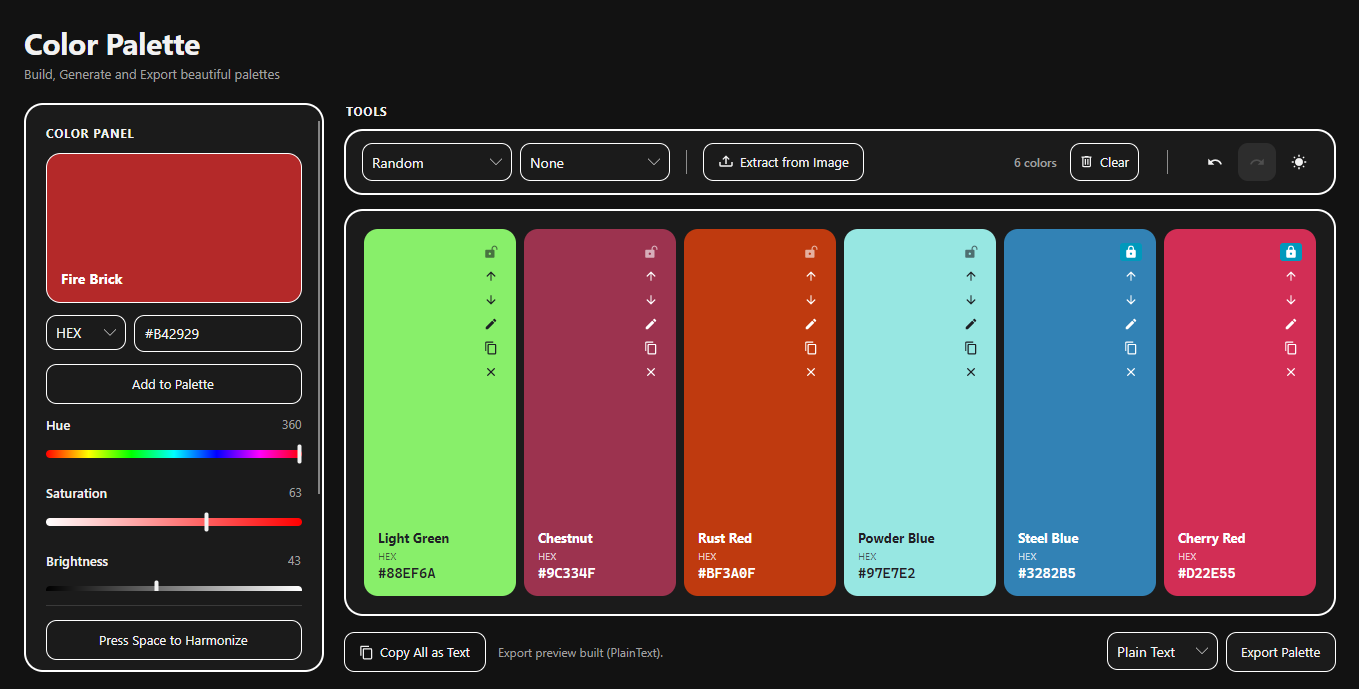
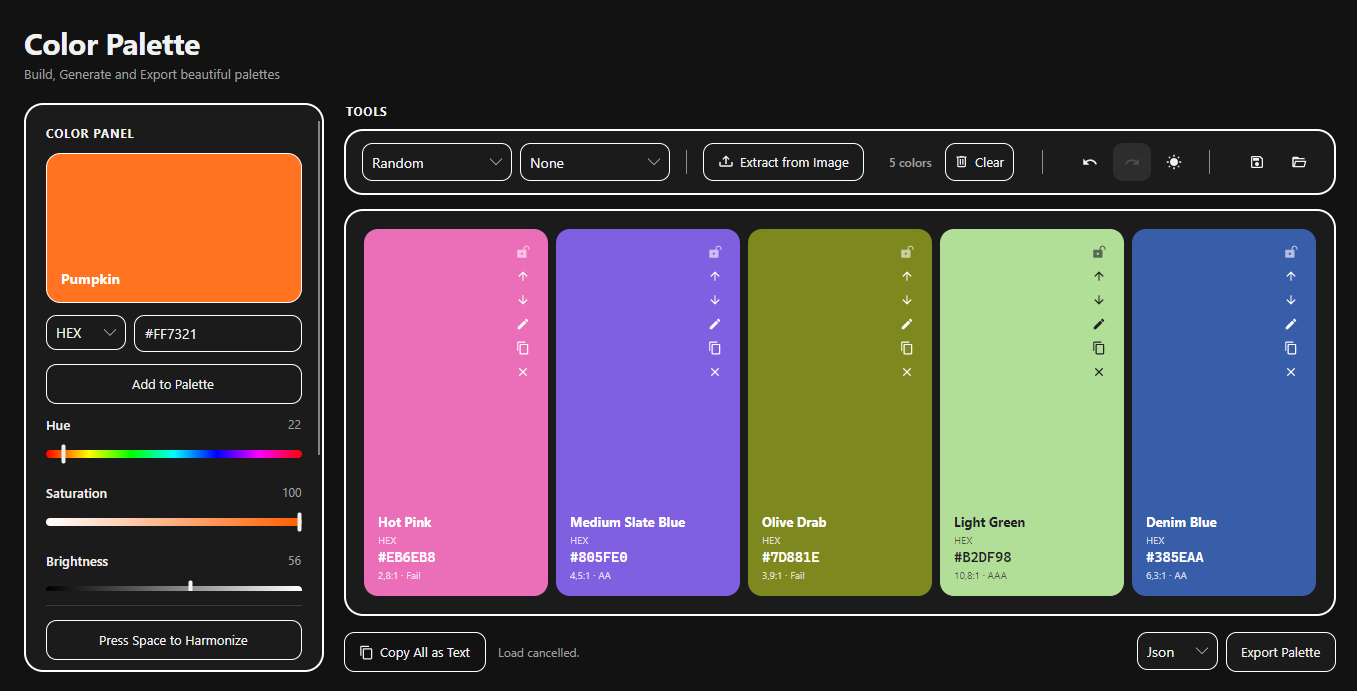
improving features

diff --git a/ViewModels/MainWindowViewModel.cs b/ViewModels/MainWindowViewModel.cs
@@ -10,7 +10,9 @@ using System;
 using System.Collections.Generic;
 using System.Collections.ObjectModel;
 using System.Globalization;
+using System.IO;
 using System.Linq;
+using System.Text.Json;
 using System.Threading.Tasks;
 
 namespace Spectrum.ViewModels
@@ -40,6 +42,9 @@ namespace Spectrum.ViewModels
         private double _temperature; // -100 (cool) .. 100 (warm), 0 = neutral
 
         [ObservableProperty]
+        private double _alpha = 100; // 0 (transparent) .. 100 (opaque), applied to BaseColor
+
+        [ObservableProperty]
         private HarmonyType _selectedHarmony = HarmonyType.Random;
 
         [ObservableProperty]
@@ -66,7 +71,8 @@ namespace Spectrum.ViewModels
             get
             {
                 var hslColor = ColorHarmonyService.FromHsl(Hue, Saturation / 100.0, Lightness / 100.0);
-                return ApplyTemperature(hslColor, Temperature);
+                var tinted = ApplyTemperature(hslColor, Temperature);
+                return Color.FromArgb(ToByte(Alpha / 100.0 * 255.0), tinted.R, tinted.G, tinted.B);
             }
         }
 
@@ -94,6 +100,9 @@ namespace Spectrum.ViewModels
             }
         }
 
+        // Percentage label for the Opacity slider's caption (e.g. "72%").
+        public string AlphaLabel => $"{Alpha:N0}%";
+
             // ---- Gradient track backgrounds for the four sliders. Hue,
             // ---- Brightness and Temperature are fixed; Saturation's end color
             // ---- depends on the current Hue, so it's recomputed whenever that changes.
@@ -118,7 +127,16 @@ namespace Spectrum.ViewModels
                 (Color.FromRgb(0x4A, 0x90, 0xE2), 0.0),
                 (Color.FromRgb(0xF5, 0xA6, 0x23), 1.0));
 
-        // ---- Undo/redo history (covers add/remove/clear/generate/extract —
+            // Unlike the other tracks, this one depends on the live base
+            // color (so the gradient always fades *that* hue from
+            // transparent to opaque) rather than a fixed set of stops, so
+            // it's a plain computed property kept in sync via
+            // RaiseColorPropertiesChanged instead of a field initializer.
+            public IBrush AlphaTrackBrush => CreateHorizontalGradient(
+                (Color.FromArgb(0, BaseColor.R, BaseColor.G, BaseColor.B), 0.0),
+                (Color.FromArgb(255, BaseColor.R, BaseColor.G, BaseColor.B), 1.0));
+
+        // ---- Undo/redo history (covers add/remove/clear/generate/extract/load —
         // ---- see PushHistory call sites. In-place edits like renaming or
         // ---- toggling a lock aren't tracked.)
         private readonly Stack<List<SwatchSnapshot>> _undoStack = new();
@@ -146,6 +164,12 @@ namespace Spectrum.ViewModels
         partial void OnLightnessChanged(double value) => RaiseColorPropertiesChanged();
         partial void OnTemperatureChanged(double value) => RaiseColorPropertiesChanged();
 
+        partial void OnAlphaChanged(double value)
+        {
+            OnPropertyChanged(nameof(AlphaLabel));
+            RaiseColorPropertiesChanged();
+        }
+
         partial void OnSelectedColorBlindModeChanged(ColorBlindMode value)
         {
             foreach (var swatch in Palette)
@@ -161,6 +185,7 @@ namespace Spectrum.ViewModels
             OnPropertyChanged(nameof(BaseColorName));
             OnPropertyChanged(nameof(BaseForegroundBrush));
             OnPropertyChanged(nameof(BaseHex));
+            OnPropertyChanged(nameof(AlphaTrackBrush));
         }
 
         private static Color ApplyTemperature(Color c, double temperature)
@@ -472,6 +497,77 @@ namespace Spectrum.ViewModels
             if (string.IsNullOrEmpty(ExportPreview)) BuildExportPreview();
             await ClipboardHelper.SetTextAsync(ExportPreview);
             StatusMessage = "Copied export text to clipboard.";
+        }
+
+        // ---------------- Palette persistence ----------------
+
+        [RelayCommand]
+        private async Task SavePaletteAsync()
+        {
+            var suggestedName = $"palette-{DateTime.Now:yyyyMMdd-HHmmss}";
+            var path = await PaletteFileService.PickSaveFileAsync(suggestedName);
+            if (string.IsNullOrEmpty(path))
+            {
+                StatusMessage = "Save cancelled.";
+                return;
+            }
+
+            var dtos = Palette
+                .Select(s => new PaletteSwatchDto(s.Name, s.Color.A, s.Color.R, s.Color.G, s.Color.B, s.IsLocked))
+                .ToList();
+
+            try
+            {
+                var json = JsonSerializer.Serialize(dtos, new JsonSerializerOptions { WriteIndented = true });
+                await File.WriteAllTextAsync(path, json);
+                StatusMessage = $"Palette saved to {Path.GetFileName(path)}.";
+            }
+            catch (Exception ex)
+            {
+                StatusMessage = $"Couldn't save palette: {ex.Message}";
+            }
+        }
+
+        [RelayCommand]
+        private async Task LoadPaletteAsync()
+        {
+            var path = await PaletteFileService.PickOpenFileAsync();
+            if (string.IsNullOrEmpty(path))
+            {
+                StatusMessage = "Load cancelled.";
+                return;
+            }
+
+            List<PaletteSwatchDto>? dtos;
+            try
+            {
+                var json = await File.ReadAllTextAsync(path);
+                dtos = JsonSerializer.Deserialize<List<PaletteSwatchDto>>(json);
+            }
+            catch (Exception ex)
+            {
+                StatusMessage = $"Couldn't load palette: {ex.Message}";
+                return;
+            }
+
+            if (dtos is null)
+            {
+                StatusMessage = "That file didn't contain a usable palette.";
+                return;
+            }
+
+            PushHistory();
+            Palette.Clear();
+
+            foreach (var dto in dtos)
+            {
+                var color = Color.FromArgb(dto.A, dto.R, dto.G, dto.B);
+                var swatch = CreateSwatch(color, dto.Name);
+                swatch.IsLocked = dto.IsLocked;
+                Palette.Add(swatch);
+            }
+
+            StatusMessage = $"Loaded {Palette.Count} color{(Palette.Count == 1 ? "" : "s")} from {Path.GetFileName(path)}.";
         }
     }
 }

diff --git a/Services/ColorHarmonyService.cs b/Services/ColorHarmonyService.cs
@@ -14,35 +14,38 @@ namespace Spectrum.Services
         public static List<Color> Generate(Color baseColor, HarmonyType type)
         {
             var (h, s, l) = ToHsl(baseColor);
+            // Harmony-derived colors inherit the base color's alpha, so the
+            // Opacity slider affects the whole generated set consistently.
+            var a = baseColor.A;
             var result = new List<Color> { baseColor };
 
             switch (type)
             {
                 case HarmonyType.Complementary:
-                    result.Add(FromHsl(h + 180, s, l));
+                    result.Add(FromHsl(h + 180, s, l, a));
                     break;
 
                 case HarmonyType.Analogous:
-                    result.Add(FromHsl(h - 30, s, l));
-                    result.Add(FromHsl(h + 30, s, l));
-                    result.Add(FromHsl(h - 60, s, l));
-                    result.Add(FromHsl(h + 60, s, l));
+                    result.Add(FromHsl(h - 30, s, l, a));
+                    result.Add(FromHsl(h + 30, s, l, a));
+                    result.Add(FromHsl(h - 60, s, l, a));
+                    result.Add(FromHsl(h + 60, s, l, a));
                     break;
 
                 case HarmonyType.Triadic:
-                    result.Add(FromHsl(h + 120, s, l));
-                    result.Add(FromHsl(h + 240, s, l));
+                    result.Add(FromHsl(h + 120, s, l, a));
+                    result.Add(FromHsl(h + 240, s, l, a));
                     break;
 
                 case HarmonyType.SplitComplementary:
-                    result.Add(FromHsl(h + 150, s, l));
-                    result.Add(FromHsl(h + 210, s, l));
+                    result.Add(FromHsl(h + 150, s, l, a));
+                    result.Add(FromHsl(h + 210, s, l, a));
                     break;
 
                 case HarmonyType.Tetradic:
-                    result.Add(FromHsl(h + 90, s, l));
-                    result.Add(FromHsl(h + 180, s, l));
-                    result.Add(FromHsl(h + 270, s, l));
+                    result.Add(FromHsl(h + 90, s, l, a));
+                    result.Add(FromHsl(h + 180, s, l, a));
+                    result.Add(FromHsl(h + 270, s, l, a));
                     break;
 
                 case HarmonyType.Monochromatic:
@@ -50,7 +53,7 @@ namespace Spectrum.Services
                     for (var i = 0; i < 5; i++)
                     {
                         var lightness = Math.Clamp(l - 0.4 + i * 0.2, 0.05, 0.95);
-                        result.Add(FromHsl(h, s, lightness));
+                        result.Add(FromHsl(h, s, lightness, a));
                     }
                     break;
 
@@ -68,7 +71,8 @@ namespace Spectrum.Services
         /// bands (vivid without being oversaturated, and never near-black or near-white).
         /// Used by the Coolors-style "press Space to generate" palette generator, where
         /// each unlocked swatch is rerolled independently rather than derived from one
-        /// base color + harmony rule.
+        /// base color + harmony rule. Always fully opaque — it isn't derived from the
+        /// base color, so there's no alpha value to inherit.
         /// </summary>
         public static Color RandomPleasant(Random rng)
         {
@@ -114,8 +118,12 @@ namespace Spectrum.Services
             return (h, s, l);
         }
 
-        /// <summary>Converts (Hue 0-360, Saturation 0-1, Lightness 0-1) back to an RGB color.</summary>
-        public static Color FromHsl(double h, double s, double l)
+        /// <summary>
+        /// Converts (Hue 0-360, Saturation 0-1, Lightness 0-1) back to an RGB color.
+        /// <paramref name="a"/> defaults to fully opaque so existing call sites that
+        /// don't care about alpha don't need to change.
+        /// </summary>
+        public static Color FromHsl(double h, double s, double l, byte a = 255)
         {
             h = ((h % 360) + 360) % 360;
             double r, g, b;
@@ -134,7 +142,7 @@ namespace Spectrum.Services
             }
 
             return new Color(
-                255,
+                a,
                 (byte)Math.Round(Math.Clamp(r, 0, 1) * 255),
                 (byte)Math.Round(Math.Clamp(g, 0, 1) * 255),
                 (byte)Math.Round(Math.Clamp(b, 0, 1) * 255));

diff --git a/Models/ColorSwatch.cs b/Models/ColorSwatch.cs
@@ -39,10 +39,22 @@ namespace Spectrum.Models
         // Picks readable black or white text/icons against whatever is
         // actually being displayed (post color-blind simulation), using the
         // standard relative-luminance formula.
-        public IBrush ForegroundBrush =>
+        private Color ForegroundColor =>
             (0.2126 * DisplayColor.R + 0.7152 * DisplayColor.G + 0.0722 * DisplayColor.B) / 255.0 > 0.6
-                ? new SolidColorBrush(Color.FromRgb(0x1E, 0x20, 0x25))
-                : Brushes.White;
+                ? Color.FromRgb(0x1E, 0x20, 0x25)
+                : Colors.White;
+
+        public IBrush ForegroundBrush => new SolidColorBrush(ForegroundColor);
+
+        // WCAG 2.x contrast of this card's own label text (ForegroundColor)
+        // against whatever color is actually displayed — lets each swatch
+        // flag whether its own Name/Hex text would actually be legible,
+        // including under color-blind simulation.
+        public double ContrastRatio => ContrastService.ContrastRatio(DisplayColor, ForegroundColor);
+
+        public string ContrastRating => ContrastService.Rate(ContrastRatio);
+
+        public string ContrastLabel => $"{ContrastRatio:N1}:1 · {ContrastRating}";
 
         public ICommand? CopyCommand { get; set; }
         public ICommand? RemoveCommand { get; set; }
@@ -55,6 +67,9 @@ namespace Spectrum.Models
             OnPropertyChanged(nameof(DisplayColor));
             OnPropertyChanged(nameof(Brush));
             OnPropertyChanged(nameof(ForegroundBrush));
+            OnPropertyChanged(nameof(ContrastRatio));
+            OnPropertyChanged(nameof(ContrastRating));
+            OnPropertyChanged(nameof(ContrastLabel));
         }
 
         partial void OnColorBlindModeChanged(ColorBlindMode value)
@@ -62,6 +77,9 @@ namespace Spectrum.Models
             OnPropertyChanged(nameof(DisplayColor));
             OnPropertyChanged(nameof(Brush));
             OnPropertyChanged(nameof(ForegroundBrush));
+            OnPropertyChanged(nameof(ContrastRatio));
+            OnPropertyChanged(nameof(ContrastRating));
+            OnPropertyChanged(nameof(ContrastLabel));
         }
 
         public ColorSwatch()

diff --git a/Services/ColorBlindnessService.cs b/Services/ColorBlindnessService.cs
@@ -57,7 +57,9 @@ namespace Spectrum.Services
                     return color;
             }
 
-            return Color.FromRgb(Clamp(nr), Clamp(ng), Clamp(nb));
+            // Preserve the original alpha — previously this used Color.FromRgb,
+            // which silently forced every simulated color to fully opaque.
+            return Color.FromArgb(color.A, Clamp(nr), Clamp(ng), Clamp(nb));
         }
 
         private static byte Clamp(double v) => (byte)Math.Clamp(Math.Round(v), 0, 255);
